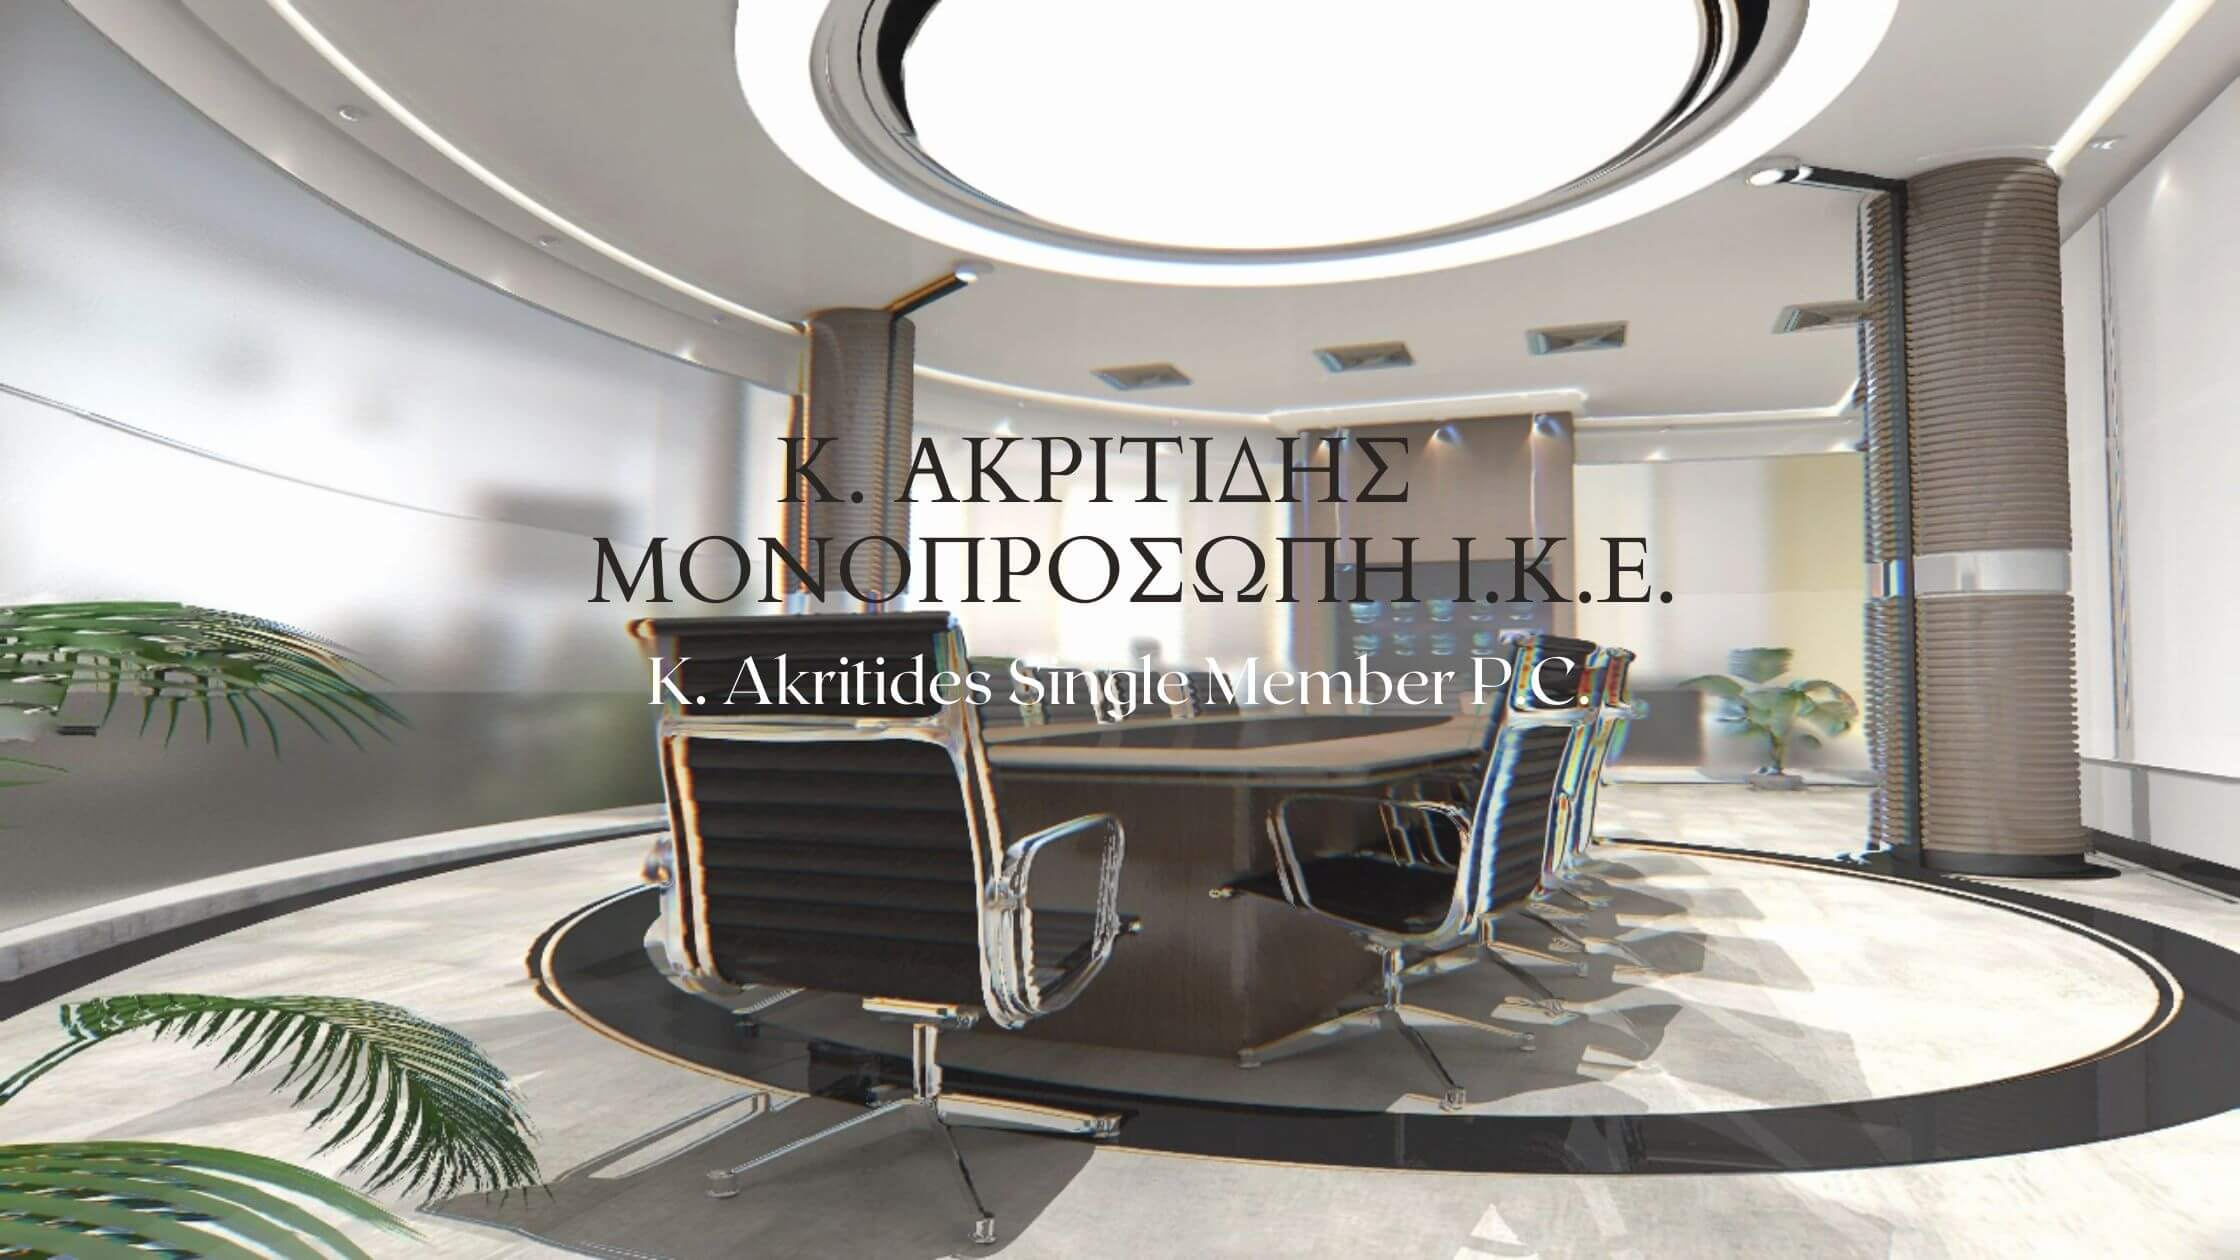
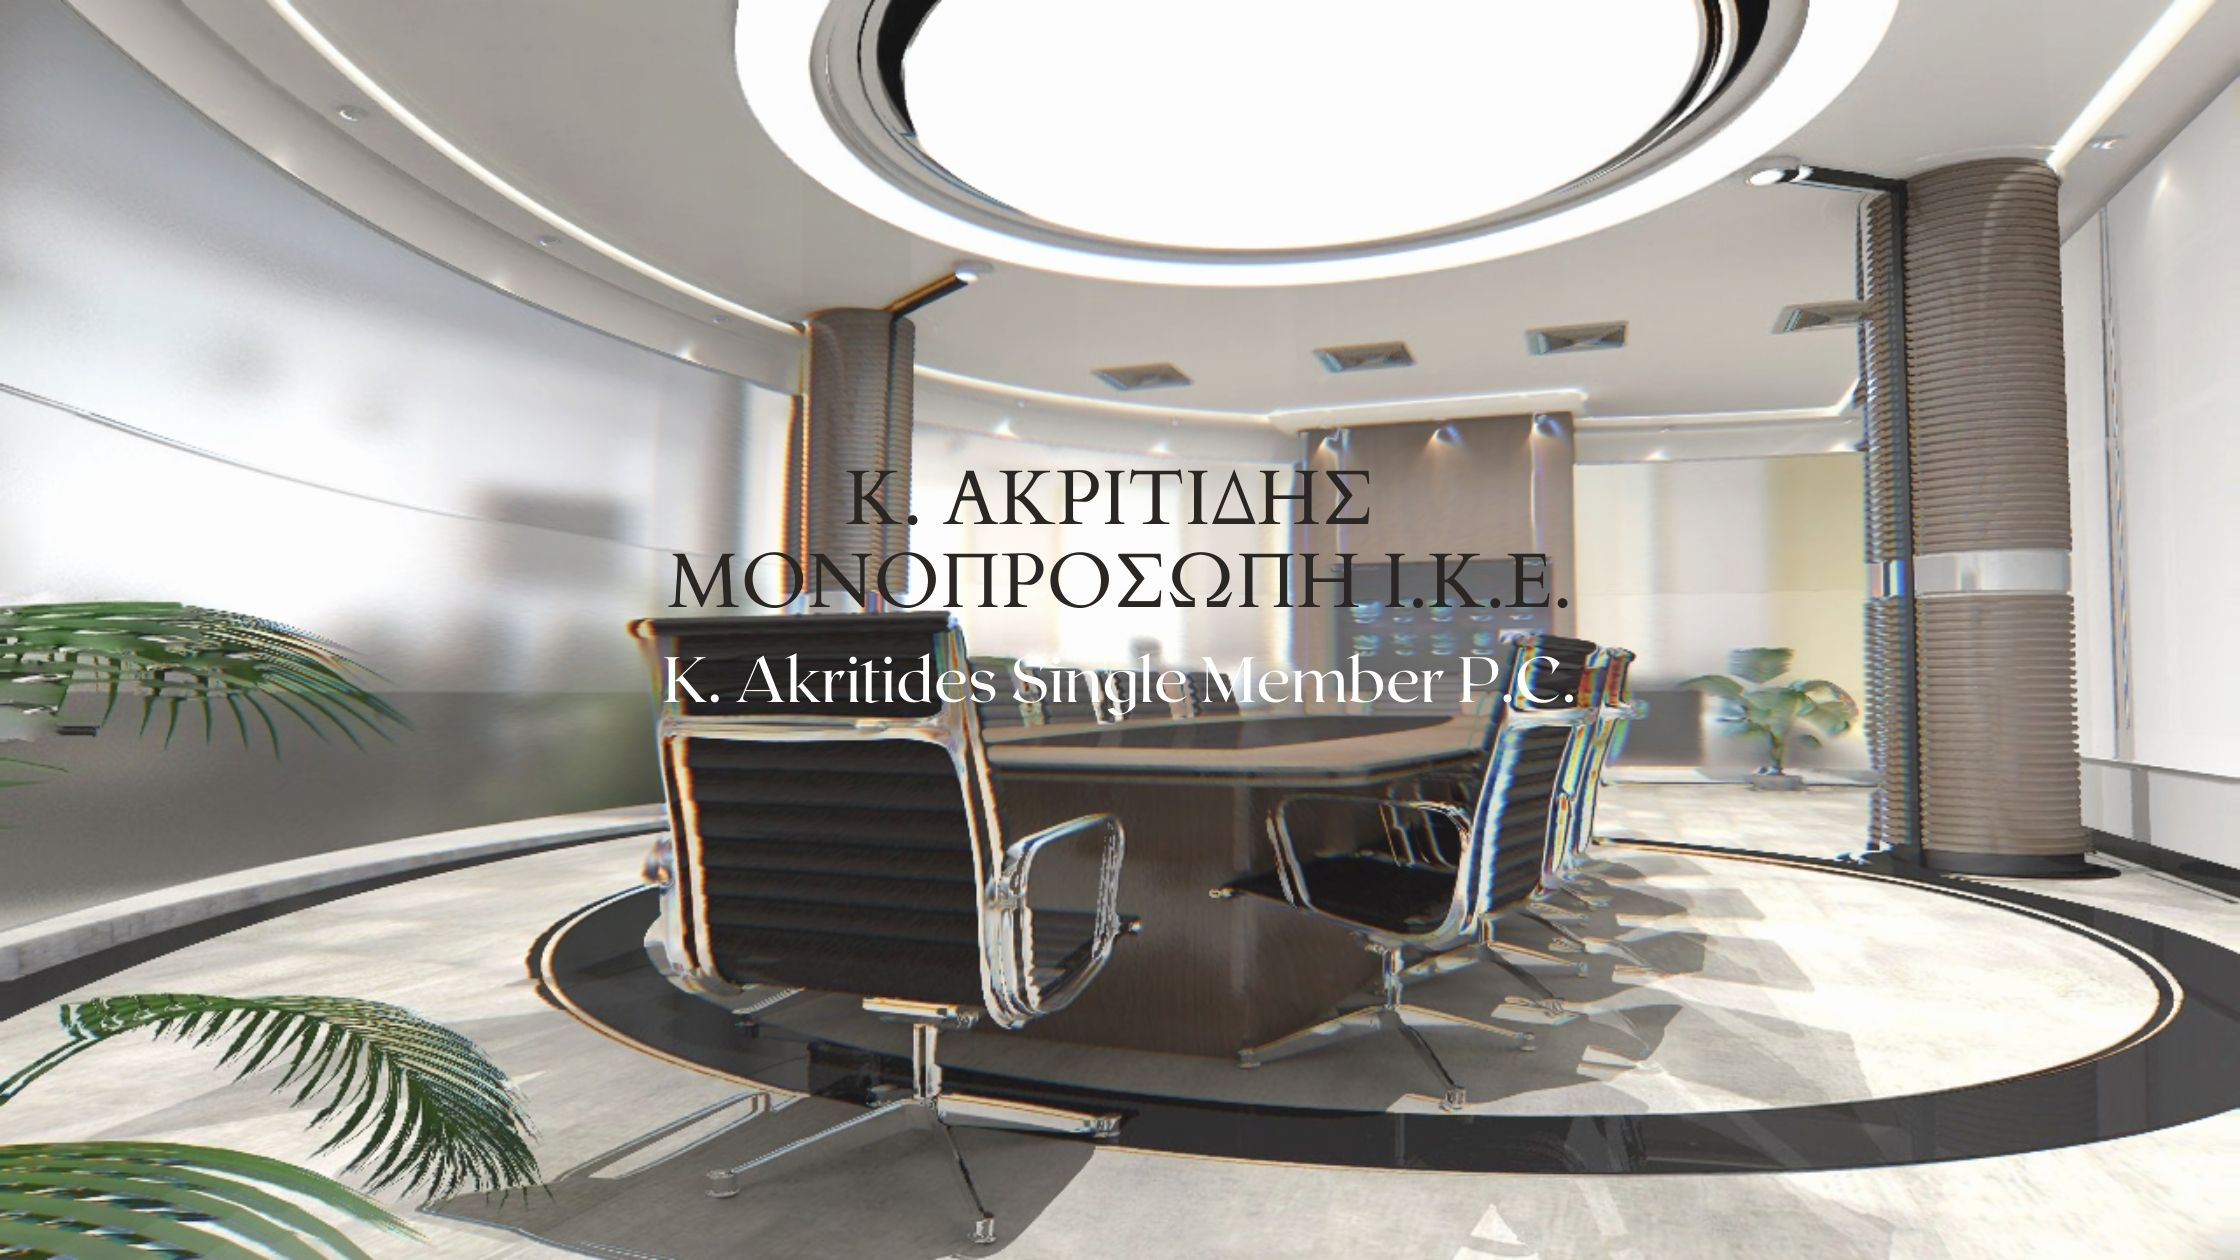
Header modifications made

Changed region(s): [[0.25, 0.3405, 0.75, 0.4952], [0.2812, 0.5262, 0.7188, 0.5571]]

diff --git a/css/styles.css b/css/styles.css
@@ -7,7 +7,8 @@
   --black-color: #000000;
   --title-text-color: #212121;
   --primary-text-color: #757575;
-  --accent-color: rgba(131, 113, 53, 0.829);
+  --accent-color: rgba(145, 123, 51, 0.829);
+  --lighter-accent-color: rgba(155, 128, 41, 0.829);
 }
 *,
 *::before,
@@ -56,19 +57,26 @@ img {
 }
 
 /*==== HEADER ===*/
-
 .header {
   display: flex;
   align-items: baseline;
   background-color: var(--accent-color);
+  border: 1px solid var(--black-color);
+}
+.header:hover,
+.header:focus {
+  background-color: var(--lighter-accent-color);
+  transition: var(--lighter-accent-color) 500ms linear;
+  opacity: 1;
 }
 .header-item {
   color: var(--black-color);
-
-  font-weight: 550;
+  display: flex;
+  align-items: center;
+  font-weight: 500;
   line-height: 1.142;
   letter-spacing: 0.02em;
-  transition: var(--accent-color) 250ms linear;
+  transition: var(--accent-color) 500ms linear;
 }
 .header-item:active {
   color: var(--accent-color);
@@ -76,6 +84,18 @@ img {
 .header-element {
   display: flex;
   margin-right: 50px;
+  animation-duration: 2000ms;
+  text-decoration: none;
+}
+.header-element:first-child {
+  margin-right: 200px;
+  margin-left: 50px;
+  font-size: 18px;
+  color: var(--black-color);
+  font-family: "Piazzolla", serif;
+}
+.header-element:first-child:hover {
+  color: var(--white-color);
 }
 .header-element:not(last-child) {
   margin-right: 50px;
@@ -89,7 +109,6 @@ img {
   align-items: flex-end;
   margin-top: 15px;
   margin-bottom: 15px;
-  margin-left: 580px;
 }
 /*==== HERO ====*/
 
@@ -102,6 +121,7 @@ img {
 
   background-size: cover;
   background-position: center;
+  border-bottom: 1px solid var(--black-color);
 }
 .hero .container {
   text-align: center;
@@ -159,6 +179,7 @@ img {
 /*===FOOTER===*/
 .contacts {
   background-color: var(--accent-color);
+  border: 1px solid var(--black-color);
   padding-bottom: 30px;
   padding-left: 30px;
   margin: 10px;
@@ -176,4 +197,11 @@ img {
   color: var(--black-color);
   font-weight: 400;
   letter-spacing: 0.03em;
+}
+.copyright {
+  display: flex;
+  margin: auto;
+  margin-top: 10px;
+  margin-bottom: 20px;
+  color: rgb(65, 62, 62);
 }

diff --git a/index.html b/index.html
@@ -9,14 +9,19 @@
     rel="stylesheet"
     href="https://cdnjs.cloudflare.com/ajax/libs/modern-normalize/1.0.0/modern-normalize.css"
   />
+<link rel="stylesheet" href="https://cdnjs.cloudflare.com/ajax/libs/animate.css/4.1.1/animate.min.css" />
   <link
     href="https://fonts.googleapis.com/css2?family=Castoro&family=Girassol&display=swap" rel="stylesheet"
   />
+<link href="https://fonts.googleapis.com/css2?family=Piazzolla:wght@700&display=swap" rel="stylesheet">
   <link rel="stylesheet" href="./css/styles.css" />
+<!--HEADER-->
   <header class="header">
       <div class="container">
           <nav class="nav-list link">
               <ul class="header-items list">
+                <a class="header-element animate__headShake link" href="./index.html" aria-label="Κ. ΑΚΡΙΤΙΔΗΣ Μονοπρόσωπη Ι.Κ.Ε.">
+                    Κ. Ακριτίδης Μονοπρόσωπη Ι.Κ.Ε.</a>
                   <li class="header-element">
                       <a class="header-item link" href="#info">ΠΛΗΡΟΦΟΡΙΕΣ</a>
                   </li>
@@ -35,8 +40,7 @@
   </header>
 </head>
 <body>
-    <!--HEADER-->
-    <h1 class="visually-hidden">Κ. ΑΚΡΙΤΙΔΗΣ Μονοπρόσωπη Ι.Κ.Ε.</h1>
+   
     <!--HERO-->
 <main>
     <section class="hero">
@@ -79,14 +83,22 @@
 </section> 
 
 <!--FOOTER-->
-<footer class="contacts container">
+<section class="contacts container">
     <ul class="contacts-list list" id="contacts">
         <li class="contacts-title">ΕΠΙΚΟΙΝΩΝΙΑ</li>
         <li class="contact-details">ΤΗΛΕΦΩΝΟ: +30 ... </li>
         <li class="contact-details">EMAIL:</li>
         <li class="contact-details">ΔΙΑΧΕΙΡΙΣΤΗΣ: Κύριλλος Ακριτίδης</li>
     </ul>
-</footer>
+</section>
+<footer class="footer">
+        <div class="container">
+            <p class="copyright">&copy; Copyright 2020 </p>
+            <ul class="social-links list">
+                </li>
+            </ul>
+        </div>
+    </footer>
 </main>
 </body>
 </html>
